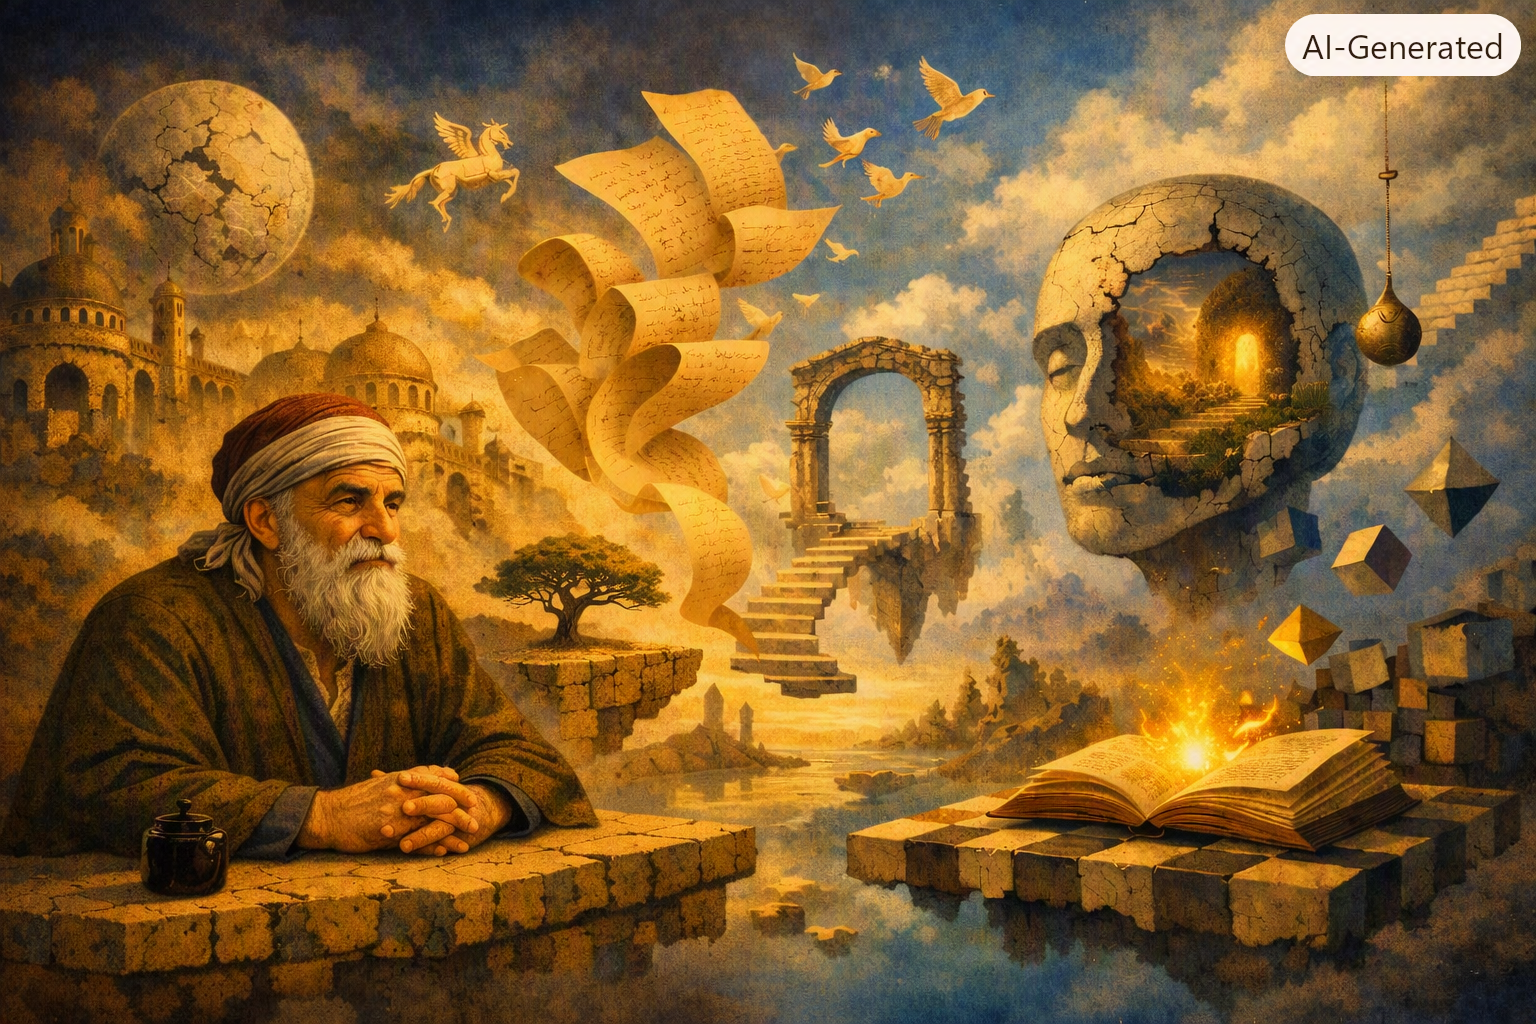
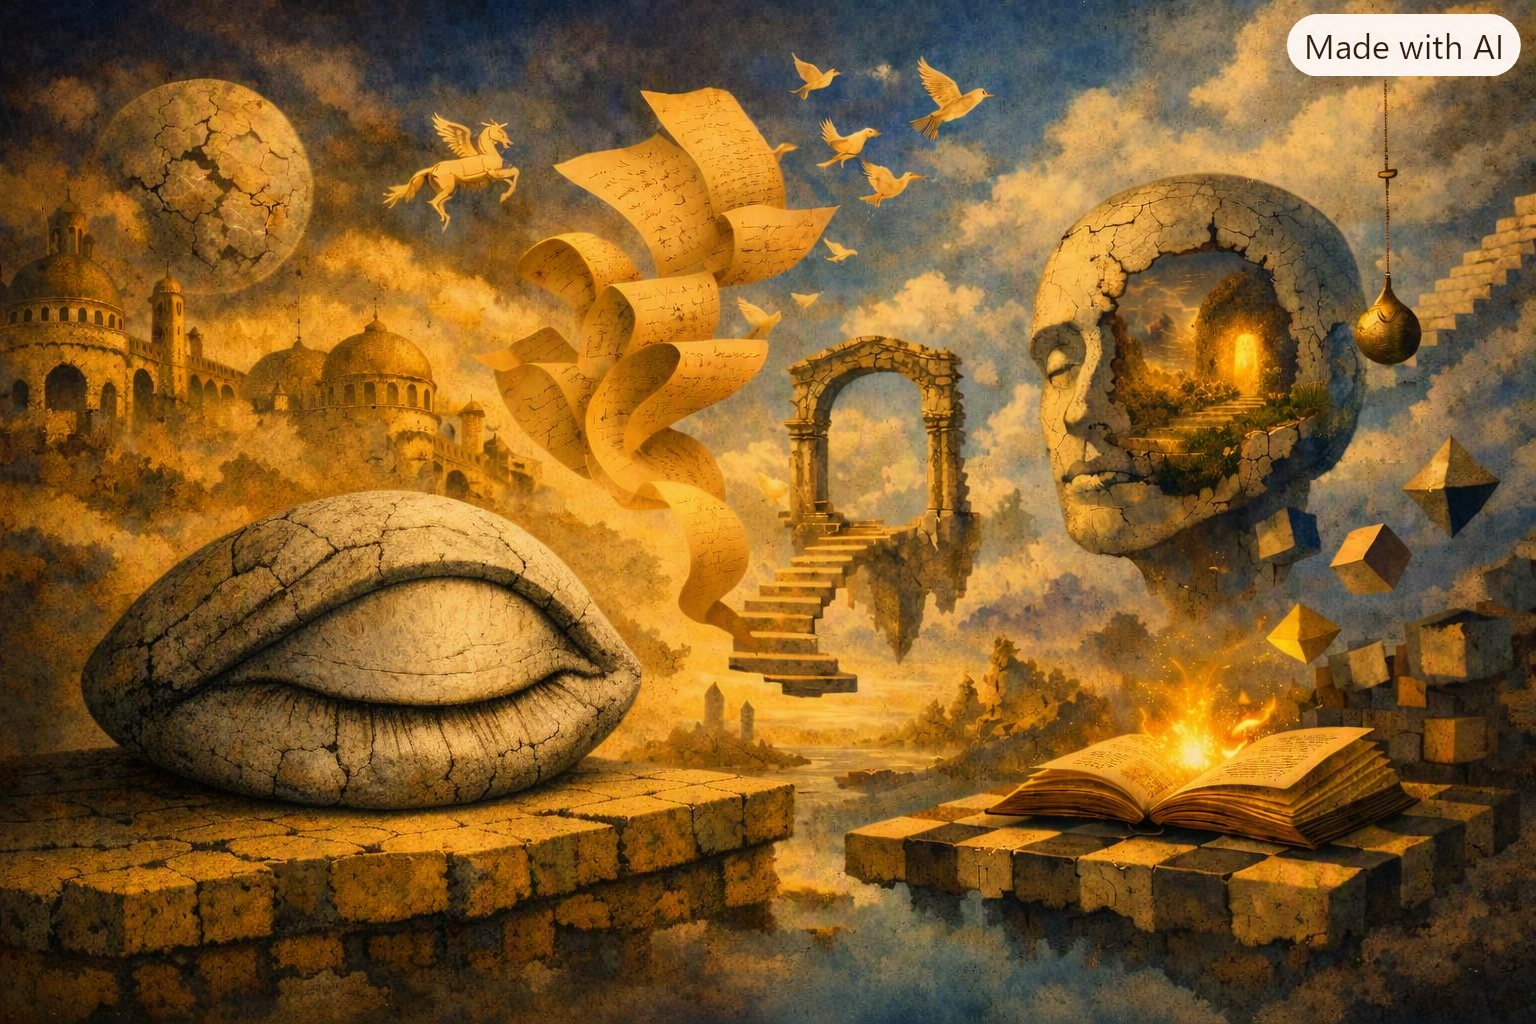
Enrich Dissertation page - add weekly journal

diff --git a/msc-ai/dissertation/dissertation.html b/msc-ai/dissertation/dissertation.html
@@ -40,13 +40,14 @@
     <section class="card">
       <h2>My Project</h2>
       <p>
-        <b>Working title:</b> Expert Human Tacit Knowledge vs. LLM Performance in Detecting AI-Generated Imitations of
+        <b>Working title:</b> Expert Human Tacit-Like Judgement vs. LLM Performance in Detecting AI-Generated Imitations
+        of
         Classical Arabic Poetry
       </p>
       <p>
         <b>Teaser:</b> Can expert human readers still beat AI at recognising what is genuine? Using fine-tuned LLM
         imitations of the classical Arabic poet al-Maʿarrī, this dissertation tests whether niche literary expertise
-        yields a detection advantage over frontier language models, and whether that advantage reflects tacit,
+        yields a detection advantage over frontier language models, and whether that advantage reflects tacit-like,
         aesthetic judgement rather than explicit knowledge.
       </p>
       <br>
@@ -106,17 +107,19 @@
           <div class="dtl-row">
             <div class="dtl-rowlabel">P2 · Fine-tuning &amp; stimuli</div>
             <div class="dtl-track"><span class="dtl-bar dtl-bar--build" style="left: 24.81%; width: 14.62%;"
-                title="P2 · 8 Sep – 18 Oct 2026">P2</span></div>
+                title="P2 · 8 Sep – 18 Oct 2026 — fine-tuning + stimulus construction; automated generation checks (Validation Activity 3)">P2</span>
+            </div>
           </div>
           <div class="dtl-row">
             <div class="dtl-rowlabel">P3 · Stimulus &amp; quiz validation</div>
             <div class="dtl-track"><span class="dtl-bar dtl-bar--build" style="left: 39.78%; width: 7.26%;"
-                title="P3 · 19 Oct – 8 Nov 2026">P3</span></div>
+                title="P3 · 19 Oct – 8 Nov 2026 — expert-panel validation of the quiz &amp; stimuli (Validation Activity 1)">P3</span>
+            </div>
           </div>
           <div class="dtl-row">
             <div class="dtl-rowlabel">P4 · Pilot, power &amp; platform</div>
             <div class="dtl-track"><span class="dtl-bar dtl-bar--build" style="left: 47.41%; width: 7.40%;"
-                title="P4 · 9 Nov – 29 Nov 2026">P4</span></div>
+                title="P4 · 9 Nov – 29 Nov 2026 — pilot study + power analysis (Validation Activity 2)">P4</span></div>
           </div>
           <div class="dtl-row">
             <div class="dtl-rowlabel">P5 · Judge-LLM benchmark</div>
@@ -187,6 +190,51 @@
             </tr>
           </tbody>
         </table>
+      </div>
+    </section>
+
+    <section class="card">
+      <h2>Weekly Journal</h2>
+      <p>
+        A week-by-week log of the dissertation project. Click a week to expand a short summary of what I did.
+      </p>
+
+      <div class="wj">
+
+        <!-- To add a week, copy one block below, then change the number, the date, and the paragraph. -->
+
+        <details class="wj-week">
+          <summary>Week 1 <span class="wj-date">28 Jul - 3 Aug 2026</span></summary>
+          <p>In the first week, I reviewed the feedback on my thesis proposal that I received from the <a
+              href="../research-methods/research-methods.html">Research Methods and Professional Practice Module</a>. I
+            documented the feedback in using Claude Code, creating changes tracker and reference document for the
+            comments verbatim. I also reviewed the project timeline and deadlines, and created my own timeline as per
+            the artefacts and research activities that I need to complete, part of which is visible in the section
+            above. </p>
+        </details>
+
+        <details class="wj-week">
+          <summary>Week 2 <span class="wj-date">4 - 10 Aug 2026</span></summary>
+          <p>In the second week, I started thinking about how I would learn to apply fine-tuning, since this is a main
+            artefact in my dissertation project and I've never done that before. So, I started a course <a
+              href="https://app.datacamp.com/learn/courses/google-deepmind-fine-tune-your-model">on finetuning on
+              DataCamp</a>, but I realised that I would probably benefit from taking the <a
+              href="https://app.datacamp.com/learn/skill-tracks/google-deepmind-ai-research-foundations">track from the
+              start, Google DeepMin: AI Research Foundations</a>. However, I went back to work on the thesis proposal
+            itself, implementing some changes on the theoriical framework and the methodology design. I was hesitated to
+            implement any changes until I get to talk to my supervisor, but I understood that supervisors are still to
+            be allocated in Week 3, and I wanted to make use of time. Therefore, I applied the changes as tracked edits
+            in a Word document and used my Claude agent to keep the status of the changes updated in the tracker file.
+        </details>
+
+        <details class="wj-week">
+          <summary>Week 3 <span class="wj-date">11 - 17 Aug 2026</span></summary>
+          <p>We got allocated to supervisors. So, I spent the weekend applying the remaining majour changes on my thesis
+            proposal, marking them as suggested rather than final, and I contacted my supervisor, Godfried Williams, to
+            see his preferred channel of scheduling and communication. I'm still waiting for his reply. I also shared my
+            updated thesis proposal, as well as the changes tracker and my project timeline with him for his review.</p>
+        </details>
+
       </div>
     </section>
 

diff --git a/styles.css b/styles.css
@@ -3349,3 +3349,60 @@ main {
   .dtl-rowlabel { font-size: 0.68rem; }
   .dtl-bar { font-size: 0.6rem; }
 }
+
+/* ============================================================
+   Weekly Journal (dissertation page) - wj-* namespace.
+   Collapsible week entries built on native <details>/<summary>
+   (no JavaScript needed). To add a week, copy one
+   <details class="wj-week"> ... </details> block in the HTML.
+   ============================================================ */
+.wj {
+  margin-top: 1rem;
+  display: flex;
+  flex-direction: column;
+  gap: 0.6rem;
+}
+.wj-week {
+  background: #faf6f1;
+  border: 1px solid rgba(46, 58, 89, 0.12);
+  border-radius: 8px;
+  overflow: hidden;
+}
+.wj-week > summary {
+  display: flex;
+  align-items: center;
+  gap: 0.5rem;
+  cursor: pointer;
+  list-style: none;
+  padding: 0.75rem 1rem;
+  font-weight: 600;
+  color: #2C3136;
+  transition: background 0.15s ease;
+}
+.wj-week > summary::-webkit-details-marker { display: none; }
+.wj-week > summary:hover { background: #f3e9df; }
+.wj-date {
+  font-weight: 400;
+  font-size: 0.82rem;
+  color: #6b6b6b;
+}
+.wj-week > summary::after {
+  content: "";
+  margin-left: auto;
+  flex: 0 0 auto;
+  width: 8px;
+  height: 8px;
+  border-right: 2px solid #b97552;
+  border-bottom: 2px solid #b97552;
+  transform: rotate(45deg);
+  transition: transform 0.2s ease;
+}
+.wj-week[open] > summary { background: #f3e9df; }
+.wj-week[open] > summary::after { transform: rotate(-135deg); }
+.wj-week > p {
+  margin: 0;
+  padding: 0.25rem 1rem 1rem;
+  color: #4a4f55;
+  line-height: 1.55;
+  font-size: 0.95rem;
+}
